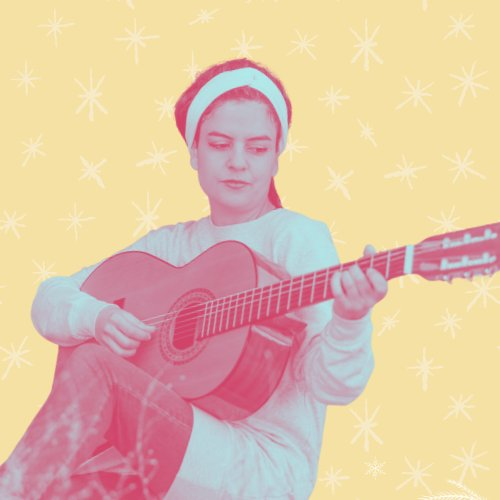
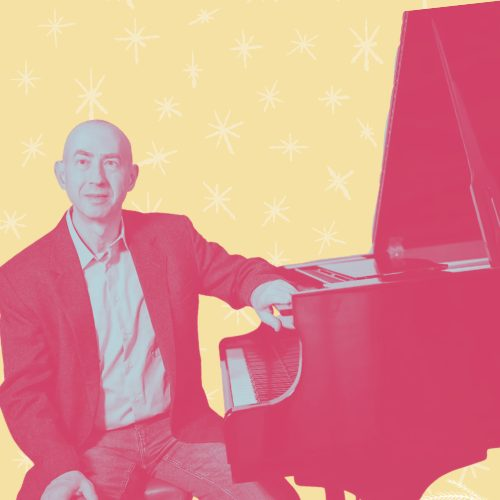
Cyber page: new Jewish Learning titles; thumbnails for Jewish Music, MVP & Me, 4's Basketball
Claude-Session: https://claude.ai/code/session_01B4jHfK8LjfRGpPXQ1PQ2Er

diff --git a/cyber/index.html b/cyber/index.html
@@ -800,7 +800,7 @@ sizeSpacer(); onScroll(); setTimeout(sizeSpacer,600);
   <div class="wrap">
 <div class="cy-hero"><video autoplay muted loop playsinline preload="auto" disablepictureinpicture aria-hidden="true" src="https://s3.amazonaws.com/webflow-prod-assets/66561dfced179b71b63b9c52/6ae76c57b96de19b054a9217_Cyber%20Hero%20Images.mp4"></video></div>
 <div class="cy-head"><h2>Members-Only Cyber Sale <em>Coming Soon!</em></h2><p>Monday, November 30, 2026 | One Day Only</p></div>
-<div class="cy-grid"><article class="cy-card"><div class="cy-top"><span class="cy-cat">Fitness</span><span class="cy-badge">New clients</span></div><h3>Personal Training</h3><p class="cy-offer">Buy one 60-minute session, get one free</p><div class="cy-price"><b>$100</b><span>First 60-minute session · <span class='free'>second session FREE</span></span></div><p class="cy-desc">Get a jump on your fitness goals with personalized training tailored to your needs.</p><div class="cy-det"><h4>Redemption &amp; restrictions</h4><ul><li>Fitness Department will contact members to schedule after purchase.</li><li>Valid for members new to personal training at The J.</li><li>Select trainers participating.</li></ul></div></article><article class="cy-card"><div class="cy-top"><span class="cy-cat">Fitness</span><span class="cy-badge">Limit 1</span></div><h3>Reformer Pilates Class Pack</h3><p class="cy-offer">50% off a 5-pack of Reformer Pilates classes</p><div class="cy-price"><b>$50</b><s>$100</s><span>Five Reformer Pilates classes</span></div><p class="cy-desc">Try something new, deepen your practice, or reconnect with your body.</p><div class="cy-det"><h4>Redemption &amp; restrictions</h4><ul><li>Members receive a redemption code via email after purchase.</li><li>Code must be used when reserving classes.</li><li>Limit one 5-pack per member.</li></ul></div></article><article class="cy-card"><div class="cy-top"><span class="cy-cat">Fitness</span><span class="cy-badge">New clients</span></div><h3>Private Reformer Pilates</h3><p class="cy-offer">Buy one private session, get one free</p><div class="cy-price"><b>$98</b><span>First 60-minute session · <span class='free'>second session FREE</span></span></div><p class="cy-desc">Personalized Reformer Pilates sessions tailored to your goals and fitness level.</p><div class="cy-det"><h4>Redemption &amp; restrictions</h4><ul><li>Fitness Department will contact members to schedule after purchase.</li><li>Valid for members new to private Pilates at The J.</li><li>Select instructors participating.</li><li>Limit one per purchase.</li></ul></div></article><article class="cy-card"><div class="cy-top"><span class="cy-cat">Aquatics</span><span class="cy-badge">New clients</span></div><h3>Lenny Krayzelburg Swim Academy</h3><p class="cy-offer">Buy one month of swim instruction, get one month free</p><div class="cy-price"><b>$0</b><span>Register for the promotional offer · <span class='free'>second month FREE</span> (a $125 value)</span></div><p class="cy-desc">From tots to adults, save on swim instruction while building confidence in the water.</p><div class="cy-det"><h4>How it works</h4><ul><li>Members register for the $0 promotional offer.</li><li>LKSA will contact members to schedule a swim evaluation and establish a lesson schedule.</li><li>Members will be quoted the first month's price and complete payment directly with LKSA.</li><li>Second month of instruction is FREE.</li><li>Valid for members new to LKSA instruction.</li></ul></div></article><article class="cy-card"><div class="cy-top"><span class="cy-cat">Mahj</span><span class="cy-badge">Limit 2</span></div><h3>Mah Jongg Theme Nights</h3><p class="cy-offer">Attend two Mah Jongg Theme Nights</p><div class="cy-price"><b>2 nights</b><span>6:00 to 9:00 pm · pick any two dates</span></div><p class="cy-desc">Choose your favorite themed evenings and enjoy twice the fun!</p><div class="cy-det"><h4>Available dates</h4><table><tr><td>Dec. 9, 2026</td><td>Mahj-ukkah</td></tr><tr><td>Jan. 14, 2027</td><td>2027: Same Card, New Luck</td></tr><tr><td>Feb. 4, 2027</td><td>Year of the GOAT: Greatest of All Tiles</td></tr><tr><td>March 18, 2027</td><td>Spring into Mahj</td></tr><tr><td>April 14, 2027</td><td>Turn Over a New Tile</td></tr><tr><td>May 20, 2027</td><td>Mahj Garden Party: Where Flower Hands Bloom Prizes</td></tr></table><h4>Redemption &amp; restrictions</h4><ul><li>Members select their two dates during checkout.</li><li>Limit two per member.</li></ul></div></article><article class="cy-card"><div class="cy-top"><span class="cy-cat">Jewish Life</span></div><h3>Jewish Learning</h3><p class="cy-offer">Buy one Jewish Learning course, get one free</p><div class="cy-price"><b>$125</b><span>First four-week course · <span class='free'>second course FREE</span></span></div><p class="cy-desc">Four-week courses exploring Jewish history, culture, and traditions.</p><div class="cy-det"><h4>Available courses</h4><table><tr><td>Jan. 6, 2027</td><td>Essen and Fressen: A Delicious Journey Through Jewish Foodways</td></tr><tr><td>Feb. 3, 2027</td><td>Shalom Y'all: Jewish Life in the American South</td></tr><tr><td>March 10, 2027</td><td>The Founders of the Jewish State: The Early Days of Israel</td></tr><tr><td>May 5, 2027</td><td>Living Jewish Values: Exploring the Midot That Shape Our Lives</td></tr></table><h4>Redemption &amp; restrictions</h4><ul><li>Each course includes four classes over four weeks.</li><li>Jewish Learning will contact members to reserve their courses after purchase.</li></ul></div></article><article class="cy-card"><div class="cy-top"><span class="cy-cat">Arts &amp; Culture</span><span class="cy-badge">Limit 4</span></div><h3>BookFest</h3><p class="cy-offer">Buy one BookFest ticket, get one free</p><div class="cy-price"><b>$10</b><span>First ticket · <span class='free'>second ticket FREE</span></span></div><p class="cy-desc">Experience engaging conversations with acclaimed authors, thought leaders, and storytellers.</p><div class="cy-det"><h4>Available events</h4><table><tr><td>Dec. 1, 2026</td><td>The Vet Will See You Now, Dr. Barak Benaryeh</td></tr><tr><td>Dec. 14, 2026</td><td>Divine Corners: In the Shadow of the Holocaust on a Catskills Farm, Dr. Michelle Friedman</td></tr><tr><td>Dec. 17, 2026</td><td>How Old Are You Today, Glenna Hecht (morning event)</td></tr><tr><td>March 4, 2027</td><td>Girlhood Translated, Dr. Suzanne Garfinkel-Cromwell</td></tr><tr><td>March 8, 2027</td><td>Memories of a Good Meal: Recipes of Resilience, Inspired by Stories of WWII Survival, Alon Shaya and June Hersh</td></tr></table><h4>Redemption &amp; restrictions</h4><ul><li>Members select their event dates during checkout.</li><li>December 17 is a morning event.</li><li>Book purchases are not included.</li><li>Limit four tickets per purchase.</li></ul></div></article><article class="cy-card"><div class="cy-top"><span class="cy-cat">Arts &amp; Culture</span><span class="cy-badge">Limit 4</span></div><h3>JPAS: Aladdin JR.</h3><p class="cy-offer">Buy one Aladdin JR. ticket, get one free</p><div class="cy-price"><b>$18</b><span>First ticket · <span class='free'>second ticket FREE</span></span></div><p class="cy-desc">J Performing Arts' spring production. Sunday performances at 6:00 pm.</p><div class="cy-det"><h4>Available dates</h4><table><tr><td>April 4, 2027</td><td>Sunday, 6:00 pm</td></tr><tr><td>April 11, 2027</td><td>Sunday, 6:00 pm</td></tr></table><h4>Redemption &amp; restrictions</h4><ul><li>Members select their performance date(s) during checkout.</li><li>Limit four tickets per purchase.</li></ul></div></article></div>
+<div class="cy-grid"><article class="cy-card"><div class="cy-top"><span class="cy-cat">Fitness</span><span class="cy-badge">New clients</span></div><h3>Personal Training</h3><p class="cy-offer">Buy one 60-minute session, get one free</p><div class="cy-price"><b>$100</b><span>First 60-minute session · <span class='free'>second session FREE</span></span></div><p class="cy-desc">Get a jump on your fitness goals with personalized training tailored to your needs.</p><div class="cy-det"><h4>Redemption &amp; restrictions</h4><ul><li>Fitness Department will contact members to schedule after purchase.</li><li>Valid for members new to personal training at The J.</li><li>Select trainers participating.</li></ul></div></article><article class="cy-card"><div class="cy-top"><span class="cy-cat">Fitness</span><span class="cy-badge">Limit 1</span></div><h3>Reformer Pilates Class Pack</h3><p class="cy-offer">50% off a 5-pack of Reformer Pilates classes</p><div class="cy-price"><b>$50</b><s>$100</s><span>Five Reformer Pilates classes</span></div><p class="cy-desc">Try something new, deepen your practice, or reconnect with your body.</p><div class="cy-det"><h4>Redemption &amp; restrictions</h4><ul><li>Members receive a redemption code via email after purchase.</li><li>Code must be used when reserving classes.</li><li>Limit one 5-pack per member.</li></ul></div></article><article class="cy-card"><div class="cy-top"><span class="cy-cat">Fitness</span><span class="cy-badge">New clients</span></div><h3>Private Reformer Pilates</h3><p class="cy-offer">Buy one private session, get one free</p><div class="cy-price"><b>$98</b><span>First 60-minute session · <span class='free'>second session FREE</span></span></div><p class="cy-desc">Personalized Reformer Pilates sessions tailored to your goals and fitness level.</p><div class="cy-det"><h4>Redemption &amp; restrictions</h4><ul><li>Fitness Department will contact members to schedule after purchase.</li><li>Valid for members new to private Pilates at The J.</li><li>Select instructors participating.</li><li>Limit one per purchase.</li></ul></div></article><article class="cy-card"><div class="cy-top"><span class="cy-cat">Aquatics</span><span class="cy-badge">New clients</span></div><h3>Lenny Krayzelburg Swim Academy</h3><p class="cy-offer">Buy one month of swim instruction, get one month free</p><div class="cy-price"><b>$0</b><span>Register for the promotional offer · <span class='free'>second month FREE</span> (a $125 value)</span></div><p class="cy-desc">From tots to adults, save on swim instruction while building confidence in the water.</p><div class="cy-det"><h4>How it works</h4><ul><li>Members register for the $0 promotional offer.</li><li>LKSA will contact members to schedule a swim evaluation and establish a lesson schedule.</li><li>Members will be quoted the first month's price and complete payment directly with LKSA.</li><li>Second month of instruction is FREE.</li><li>Valid for members new to LKSA instruction.</li></ul></div></article><article class="cy-card"><div class="cy-top"><span class="cy-cat">Mahj</span><span class="cy-badge">Limit 2</span></div><h3>Mah Jongg Theme Nights</h3><p class="cy-offer">Attend two Mah Jongg Theme Nights</p><div class="cy-price"><b>2 nights</b><span>6:00 to 9:00 pm · pick any two dates</span></div><p class="cy-desc">Choose your favorite themed evenings and enjoy twice the fun!</p><div class="cy-det"><h4>Available dates</h4><table><tr><td>Dec. 9, 2026</td><td>Mahj-ukkah</td></tr><tr><td>Jan. 14, 2027</td><td>2027: Same Card, New Luck</td></tr><tr><td>Feb. 4, 2027</td><td>Year of the GOAT: Greatest of All Tiles</td></tr><tr><td>March 18, 2027</td><td>Spring into Mahj</td></tr><tr><td>April 14, 2027</td><td>Turn Over a New Tile</td></tr><tr><td>May 20, 2027</td><td>Mahj Garden Party: Where Flower Hands Bloom Prizes</td></tr></table><h4>Redemption &amp; restrictions</h4><ul><li>Members select their two dates during checkout.</li><li>Limit two per member.</li></ul></div></article><article class="cy-card"><div class="cy-top"><span class="cy-cat">Jewish Life</span></div><h3>Jewish Learning</h3><p class="cy-offer">Buy one Jewish Learning course, get one free</p><div class="cy-price"><b>$125</b><span>First four-week course · <span class='free'>second course FREE</span></span></div><p class="cy-desc">Four-week courses exploring Jewish history, culture, and traditions.</p><div class="cy-det"><h4>Available courses</h4><table><tr><td>Jan. 6, 2027</td><td>Beyond the Bagel: A Deep Dish Into Jewish Food Culture</td></tr><tr><td>Feb. 3, 2027</td><td>Sweet Tea and Shabbat: A Cultural Mashup of the Jewish South</td></tr><tr><td>March 10, 2027</td><td>The Dreamers and Builders: Inside the Founding of the Jewish State</td></tr><tr><td>May 5, 2027</td><td>Street-Smart Torah: Midot for the Modern World</td></tr></table><h4>Redemption &amp; restrictions</h4><ul><li>Each course includes four classes over four weeks.</li><li>Jewish Learning will contact members to reserve their courses after purchase.</li></ul></div></article><article class="cy-card"><div class="cy-top"><span class="cy-cat">Arts &amp; Culture</span><span class="cy-badge">Limit 4</span></div><h3>BookFest</h3><p class="cy-offer">Buy one BookFest ticket, get one free</p><div class="cy-price"><b>$10</b><span>First ticket · <span class='free'>second ticket FREE</span></span></div><p class="cy-desc">Experience engaging conversations with acclaimed authors, thought leaders, and storytellers.</p><div class="cy-det"><h4>Available events</h4><table><tr><td>Dec. 1, 2026</td><td>The Vet Will See You Now, Dr. Barak Benaryeh</td></tr><tr><td>Dec. 14, 2026</td><td>Divine Corners: In the Shadow of the Holocaust on a Catskills Farm, Dr. Michelle Friedman</td></tr><tr><td>Dec. 17, 2026</td><td>How Old Are You Today, Glenna Hecht (morning event)</td></tr><tr><td>March 4, 2027</td><td>Girlhood Translated, Dr. Suzanne Garfinkel-Cromwell</td></tr><tr><td>March 8, 2027</td><td>Memories of a Good Meal: Recipes of Resilience, Inspired by Stories of WWII Survival, Alon Shaya and June Hersh</td></tr></table><h4>Redemption &amp; restrictions</h4><ul><li>Members select their event dates during checkout.</li><li>December 17 is a morning event.</li><li>Book purchases are not included.</li><li>Limit four tickets per purchase.</li></ul></div></article><article class="cy-card"><div class="cy-top"><span class="cy-cat">Arts &amp; Culture</span><span class="cy-badge">Limit 4</span></div><h3>JPAS: Aladdin JR.</h3><p class="cy-offer">Buy one Aladdin JR. ticket, get one free</p><div class="cy-price"><b>$18</b><span>First ticket · <span class='free'>second ticket FREE</span></span></div><p class="cy-desc">J Performing Arts' spring production. Sunday performances at 6:00 pm.</p><div class="cy-det"><h4>Available dates</h4><table><tr><td>April 4, 2027</td><td>Sunday, 6:00 pm</td></tr><tr><td>April 11, 2027</td><td>Sunday, 6:00 pm</td></tr></table><h4>Redemption &amp; restrictions</h4><ul><li>Members select their performance date(s) during checkout.</li><li>Limit four tickets per purchase.</li></ul></div></article></div>
   </div>
 </section>
 <script>(function(){var v=document.querySelector('.cy-hero video');if(!v)return;v.muted=true;var p=v.play();if(p&&p.catch)p.catch(function(){});})();</script>
